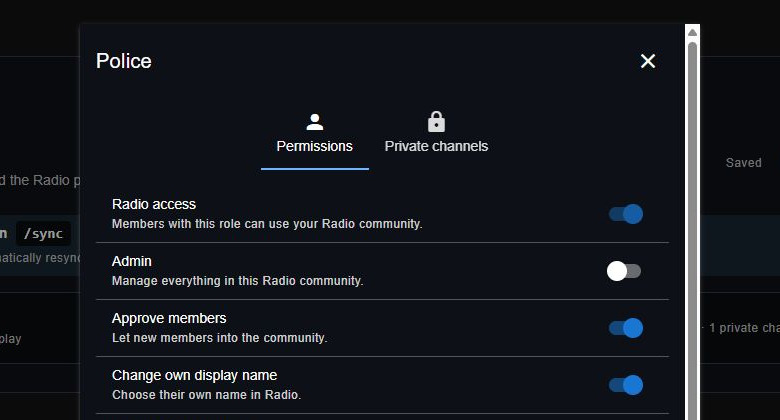
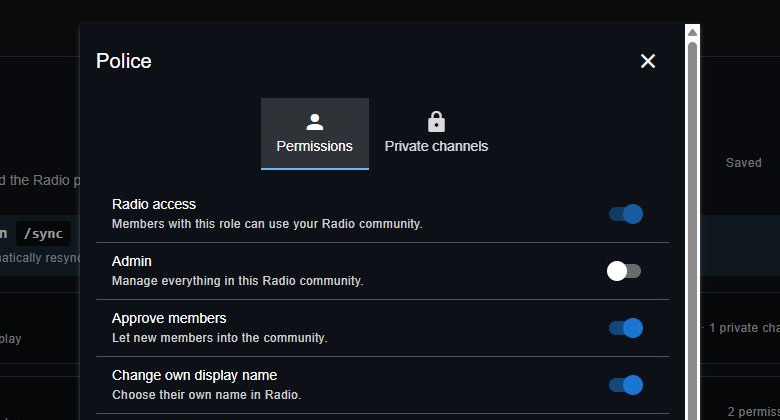
Use Sonoran Valey Roleplay in Radio documentation screenshots

Changed region(s): [[0.3077, 0.2167, 0.4923, 0.4024], [0.9231, 0.9595, 1.0, 0.9905]]

diff --git a/radio/sonoran-radio/tutorials/integrations/discord/role-sync.md b/radio/sonoran-radio/tutorials/integrations/discord/role-sync.md
@@ -12,7 +12,7 @@ Follow [Connect your server](../discord-bot-integration.md), then open **Customi
 
 <figure><img src="../../../.gitbook/assets/radio-discord-members-banner.jpg" alt="Radio Members banner with a Set up role sync button"><figcaption><p>Open role sync from the Members panel.</p></figcaption></figure>
 
-<figure><img src="../../../.gitbook/assets/radio-discord-role-sync.jpg" alt="Radio Role sync panel showing Police and Dispatch mappings with edit and delete buttons"><figcaption><p>Each role shows its Discord server and assigned permissions.</p></figcaption></figure>
+<figure><img src="../../../.gitbook/assets/radio-discord-role-sync.jpg" alt="Radio Role sync panel showing Police and Dispatch mappings for Sonoran Valey Roleplay with edit and delete buttons"><figcaption><p>Each role shows its Discord server and assigned permissions.</p></figcaption></figure>
 
 {% hint style="info" %}
 If this community uses Sonoran CMS, configure [Radio permissions in CMS](https://docs.sonoransoftware.com/cms/integration-capabilities/sonoran-radio-sync). Radio role mapping is disabled for communities managed by CMS.
